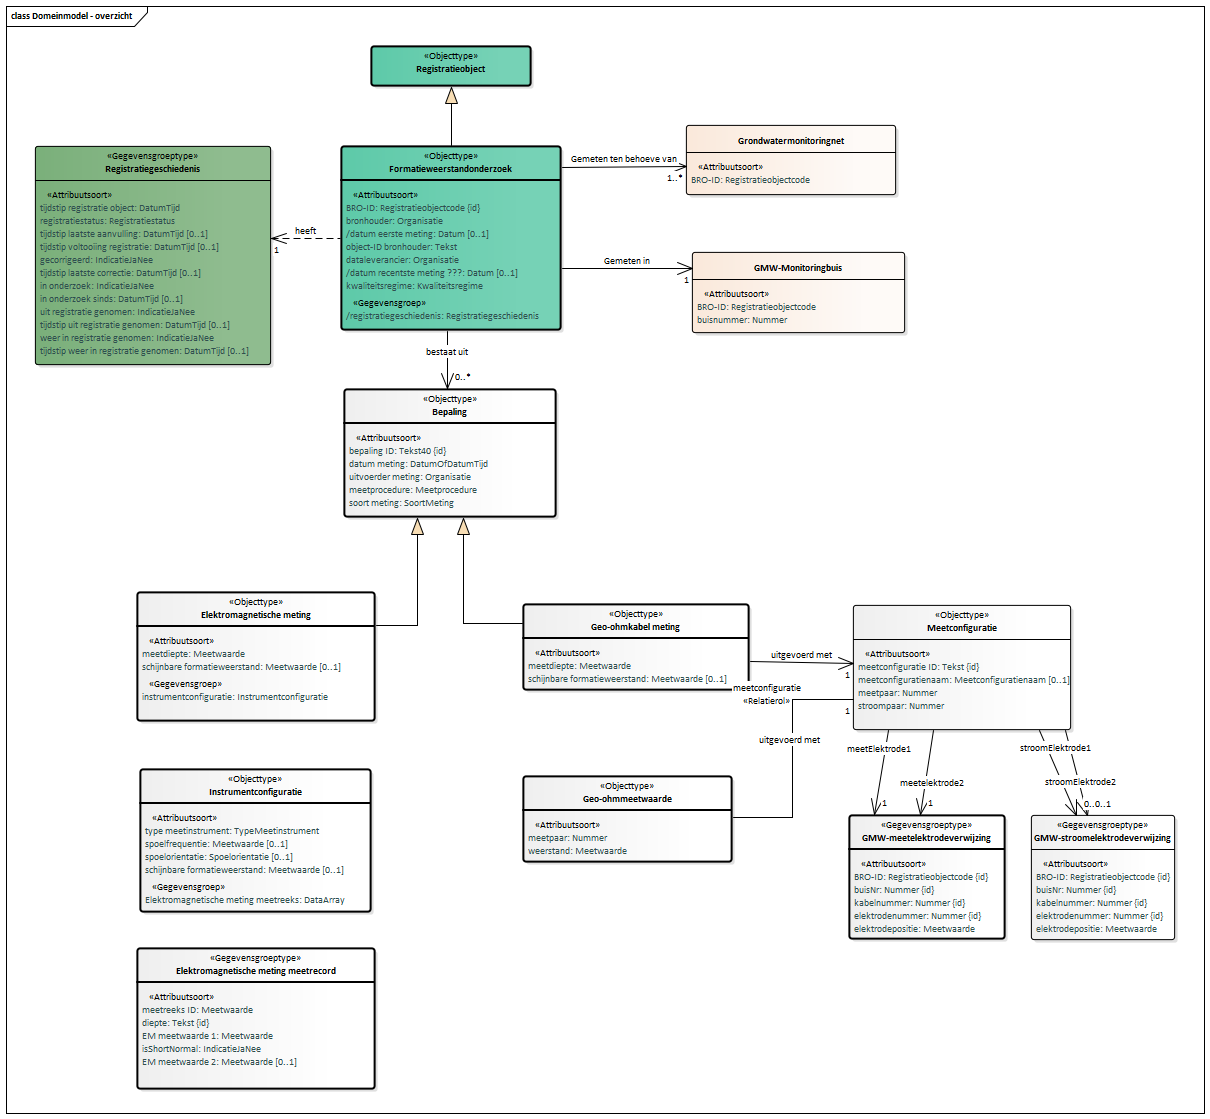
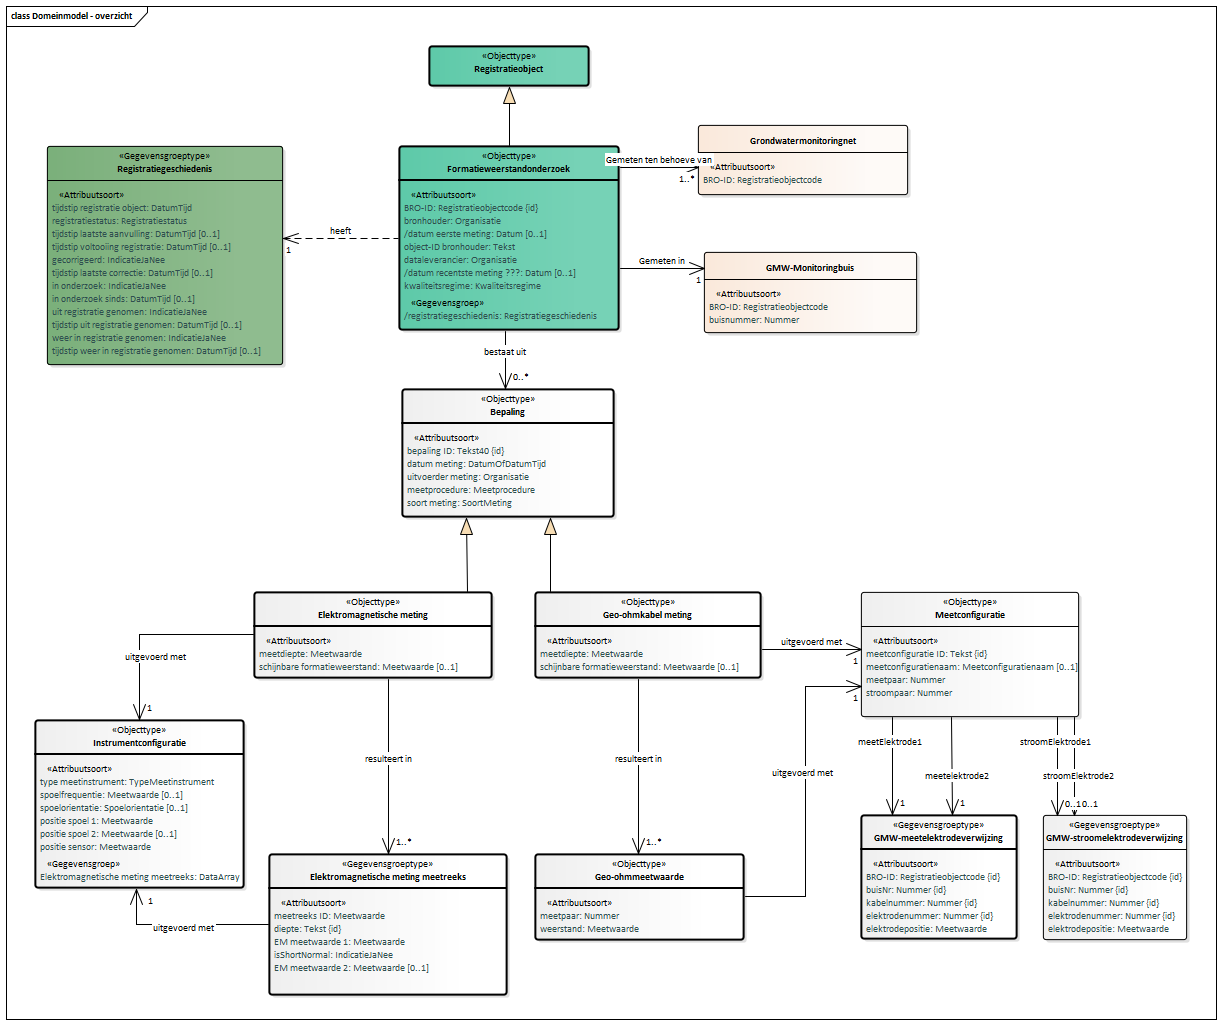
Conceptualmodel-FormatieweerstandonderzoekFRDconceptueel-0.1-1-20200401-20200814-153834

diff --git a/data/FRD-cat.msword.html b/data/FRD-cat.msword.html
@@ -15,7 +15,7 @@
    <body>
       <p>Conceptual model/Formatieweerstand onderzoek (FRD) conceptueel/20200401</p>
       <p>Imvertor: 1.61.2</p>
-      <p>Model release: Conceptualmodel-FormatieweerstandonderzoekFRDconceptueel-0.1-1-20200401-20200814-144507</p>
+      <p>Model release: Conceptualmodel-FormatieweerstandonderzoekFRDconceptueel-0.1-1-20200401-20200814-153834</p>
       <hr>
       <section>
          <h1>Artikel 1 Definitie van registratieobject, entiteiten en attributen</h1>
@@ -60,7 +60,7 @@
          <section>
             <h2>Het domeinmodel</h2>
             <section id="">
-               <div class="imageinfo overview"><img src="Images/EAID_0B3602DB_544E_4f6f_A6E2_DDE4A8A6790E.png" usemap="#imagemap-EAID_0B3602DB_544E_4f6f_A6E2_DDE4A8A6790E" alt="Diagram "><map name="imagemap-EAID_0B3602DB_544E_4f6f_A6E2_DDE4A8A6790E"><area shape="rect" alt="GMW-stroomelektrodeverwijzing" coords="1031,815,1175,940" href="#graph_EAID_561565B3_15F2_4942_B5C4_E03BCE867EEE"><area shape="rect" alt="Geo-ohmmeetwaarde" coords="523,776,732,862" href="#graph_EAID_0E73504D_4081_4ea3_A7AA_1FB27FBC227B"><area shape="rect" alt="Instrumentconfiguratie" coords="140,769,371,912" href="#graph_EAID_C4102470_4315_4bda_9B2A_59EDEA9E2834"><area shape="rect" alt="Meetconfiguratie" coords="853,605,1071,730" href="#graph_EAID_04636D26_BFC4_4838_AC91_21BB2BF62212"><area shape="rect" alt="Elektromagnetische meting meetrecord" coords="137,948,375,1089" href="#graph_EAID_17DB4860_7353_467e_89CD_5018D22D8A43"><area shape="rect" alt="Elektromagnetische meting" coords="137,592,375,721" href="#graph_EAID_A1A80DF7_7D38_4063_8DE9_80EDAAF846B4"><area shape="rect" alt="Geo-ohmkabel meting" coords="523,604,749,690" href="#graph_EAID_16AE0361_B385_4410_A632_F5CDCEEC8FD1"><area shape="rect" alt="GMW-meetelektrodeverwijzing" coords="849,815,1005,939" href="#graph_EAID_EFFFB8A0_3810_43f9_83F1_FC48EFD1FE4E"><area shape="rect" alt="Bepaling" coords="344,389,556,517" href="#graph_EAID_D3B48B39_96CC_4f01_91F1_BDF0B725CD8A"><area shape="rect" alt="Registratiegeschiedenis" coords="35,146,271,365" href="#graph_EAID_0451B041_6862_420f_9E12_9829516BAF81"><area shape="rect" alt="Formatieweerstandonderzoek" coords="341,146,561,330" href="#graph_EAID_F03C2FC8_5705_46dc_927D_01B7EC61C2F2"><area shape="rect" alt="Registratieobject" coords="371,46,531,86" href="#graph_EAID_5706F7F6_075B_46d6_A47D_7DCF1EEB21B7"></map><p><b>Domeinmodel</b></p>
+               <div class="imageinfo overview"><img src="Images/EAID_0B3602DB_544E_4f6f_A6E2_DDE4A8A6790E.png" usemap="#imagemap-EAID_0B3602DB_544E_4f6f_A6E2_DDE4A8A6790E" alt="Diagram "><map name="imagemap-EAID_0B3602DB_544E_4f6f_A6E2_DDE4A8A6790E"><area shape="rect" alt="GMW-stroomelektrodeverwijzing" coords="1043,815,1187,940" href="#graph_EAID_561565B3_15F2_4942_B5C4_E03BCE867EEE"><area shape="rect" alt="Geo-ohmmeetwaarde" coords="535,854,744,940" href="#graph_EAID_0E73504D_4081_4ea3_A7AA_1FB27FBC227B"><area shape="rect" alt="Instrumentconfiguratie" coords="35,720,244,888" href="#graph_EAID_C4102470_4315_4bda_9B2A_59EDEA9E2834"><area shape="rect" alt="Meetconfiguratie" coords="861,592,1079,717" href="#graph_EAID_04636D26_BFC4_4838_AC91_21BB2BF62212"><area shape="rect" alt="Elektromagnetische meting meetreeks" coords="269,854,507,995" href="#graph_EAID_17DB4860_7353_467e_89CD_5018D22D8A43"><area shape="rect" alt="Elektromagnetische meting" coords="254,592,492,678" href="#graph_EAID_A1A80DF7_7D38_4063_8DE9_80EDAAF846B4"><area shape="rect" alt="Geo-ohmkabel meting" coords="535,592,761,678" href="#graph_EAID_16AE0361_B385_4410_A632_F5CDCEEC8FD1"><area shape="rect" alt="GMW-meetelektrodeverwijzing" coords="861,815,1017,939" href="#graph_EAID_EFFFB8A0_3810_43f9_83F1_FC48EFD1FE4E"><area shape="rect" alt="Bepaling" coords="402,389,614,517" href="#graph_EAID_D3B48B39_96CC_4f01_91F1_BDF0B725CD8A"><area shape="rect" alt="Registratiegeschiedenis" coords="47,146,283,365" href="#graph_EAID_0451B041_6862_420f_9E12_9829516BAF81"><area shape="rect" alt="Formatieweerstandonderzoek" coords="399,146,619,330" href="#graph_EAID_F03C2FC8_5705_46dc_927D_01B7EC61C2F2"><area shape="rect" alt="Registratieobject" coords="429,46,589,86" href="#graph_EAID_5706F7F6_075B_46d6_A47D_7DCF1EEB21B7"></map><p><b>Domeinmodel</b></p>
                </div>
             </section>
          </section>
@@ -1509,7 +1509,7 @@
                               <th>Definitie</th>
                               <td>
                                  
-                                 <p>TODO</p>
+                                 <p>De afstand tussen spoel 1 en de sensor uitgedrukt in centimeter</p>
                                  </td>
                            </tr>
                            <tr>
@@ -1534,8 +1534,8 @@
                            </tr>
                         </tbody>
                      </table>
-                     </section><a class="anchor" id="detail_attribute_Model_Instrumentconfiguratie_schijnbareformatieweerstand"></a><section id="detail_attribute_Model_Instrumentconfiguratie_schijnbareformatieweerstand">
-                     <h4>  schijnbare formatieweerstand</h4>
+                     </section><a class="anchor" id="detail_attribute_Model_Instrumentconfiguratie_positiespoel1"></a><section id="detail_attribute_Model_Instrumentconfiguratie_positiespoel1">
+                     <h4>  positie spoel 1</h4>
                      
                      <table style="width: 100%;">
                         <colgroup style="width: 30%;"></colgroup>
@@ -1549,8 +1549,44 @@
                               <th>Definitie</th>
                               <td>
                                  
-                                 <p>De schijnbare formatieweerstand is de omrekening van de gemeten geleidbaarheid op
-                                    een bepaalde diepte naar ohmmeter.</p>
+                                 <p>Afstand tussen onderkant instrument en sensor uitgedrukt in centimeter</p>
+                                 </td>
+                           </tr>
+                           <tr>
+                              <th>Juridische status</th>
+                              <td>Authentiek</td>
+                           </tr>
+                           <tr>
+                              <th>Kardinaliteit</th>
+                              <td>1</td>
+                           </tr>
+                           <tr>
+                              <th>Domein</th>
+                              <td></td>
+                           </tr>
+                           <tr>
+                              <th>&nbsp;&nbsp;Naam</th>
+                              <td>Meetwaarde 
+                                 </td>
+                           </tr>
+                        </tbody>
+                     </table>
+                     </section><a class="anchor" id="detail_attribute_Model_Instrumentconfiguratie_positiespoel2"></a><section id="detail_attribute_Model_Instrumentconfiguratie_positiespoel2">
+                     <h4>  positie spoel 2</h4>
+                     
+                     <table style="width: 100%;">
+                        <colgroup style="width: 30%;"></colgroup>
+                        <colgroup style="width: 70%;"></colgroup>
+                        <tbody>
+                           <tr>
+                              <th>Type gegeven</th>
+                              <td>Attribuut van Instrumentconfiguratie</td>
+                           </tr>
+                           <tr>
+                              <th>Definitie</th>
+                              <td>
+                                 
+                                 <p>Afstand tussen spoel 2 en sensor uitgedrukt in centimeter</p>
                                  </td>
                            </tr>
                            <tr>
@@ -1570,10 +1606,54 @@
                               <td>Meetwaarde 
                                  </td>
                            </tr>
+                           <tr>
+                              <th>Toelichting</th>
+                              <td>
+                                 
+                                 <p>Bij aanwezigheid van meerdere spoelen is dit de Long Normal</p>
+                                 </td>
+                           </tr>
+                        </tbody>
+                     </table>
+                     </section><a class="anchor" id="detail_attribute_Model_Instrumentconfiguratie_positiesensor"></a><section id="detail_attribute_Model_Instrumentconfiguratie_positiesensor">
+                     <h4>  positie sensor</h4>
+                     
+                     <table style="width: 100%;">
+                        <colgroup style="width: 30%;"></colgroup>
+                        <colgroup style="width: 70%;"></colgroup>
+                        <tbody>
+                           <tr>
+                              <th>Type gegeven</th>
+                              <td>Attribuut van Instrumentconfiguratie</td>
+                           </tr>
+                           <tr>
+                              <th>Definitie</th>
+                              <td>
+                                 
+                                 <p>Afstand tussen spoel 1 en sensor uitgedrukt in centimeter</p>
+                                 </td>
+                           </tr>
+                           <tr>
+                              <th>Juridische status</th>
+                              <td>Authentiek</td>
+                           </tr>
+                           <tr>
+                              <th>Kardinaliteit</th>
+                              <td>1</td>
+                           </tr>
+                           <tr>
+                              <th>Domein</th>
+                              <td></td>
+                           </tr>
+                           <tr>
+                              <th>&nbsp;&nbsp;Naam</th>
+                              <td>Meetwaarde 
+                                 </td>
+                           </tr>
                         </tbody>
                      </table>
                      </section>
-               </section><a class="anchor" id="graph_EAID_33450642_9C84_4c07_AFE3_FB734FBA8DBB"></a><a class="anchor" id="global_class_Model_Elektromagnetischemetingmeetreeks"></a><section id="global_class_Model_Elektromagnetischemetingmeetreeks">
+               </section><a class="anchor" id="graph_EAID_17DB4860_7353_467e_89CD_5018D22D8A43"></a><a class="anchor" id="global_class_Model_Elektromagnetischemetingmeetreeks"></a><section id="global_class_Model_Elektromagnetischemetingmeetreeks">
                   <h3>   Elektromagnetische meting meetreeks</h3>
                   <table style="width: 100%;">
                      <colgroup style="width: 30%;"></colgroup>
@@ -1623,67 +1703,12 @@
                            </tr>
                            <tr>
                               <th>&nbsp;&nbsp;Naam</th>
-                              <td>Tekst </td>
-                           </tr>
-                        </tbody>
-                     </table>
-                     </section>
-               </section><a class="anchor" id="graph_EAID_17DB4860_7353_467e_89CD_5018D22D8A43"></a><a class="anchor" id="global_class_Model_Elektromagnetischemetingmeetrecord"></a><section id="global_class_Model_Elektromagnetischemetingmeetrecord">
-                  <h3>   Elektromagnetische meting meetrecord</h3>
-                  <table style="width: 100%;">
-                     <colgroup style="width: 30%;"></colgroup>
-                     <colgroup style="width: 70%;"></colgroup>
-                     <tbody>
-                        <tr>
-                           <th>Type gegeven</th>
-                           <td>Entiteit</td>
-                        </tr>
-                        <tr>
-                           <th>Definitie</th>
-                           <td>
-                              
-                              <p>De meetreeks behorende bij de elektromagnetische meting</p>
-                              </td>
-                        </tr>
-                     </tbody>
-                  </table><a class="anchor" id="detail_attribute_Model_Elektromagnetischemetingmeetrecord_meetreeksID"></a><section id="detail_attribute_Model_Elektromagnetischemetingmeetrecord_meetreeksID">
-                     <h4>  meetreeks ID</h4>
-                     
-                     <table style="width: 100%;">
-                        <colgroup style="width: 30%;"></colgroup>
-                        <colgroup style="width: 70%;"></colgroup>
-                        <tbody>
-                           <tr>
-                              <th>Type gegeven</th>
-                              <td>Attribuut van Elektromagnetische meting meetrecord</td>
-                           </tr>
-                           <tr>
-                              <th>Definitie</th>
-                              <td>
-                                 
-                                 <p>TODO</p>
-                                 </td>
-                           </tr>
-                           <tr>
-                              <th>Juridische status</th>
-                              <td>Authentiek</td>
-                           </tr>
-                           <tr>
-                              <th>Kardinaliteit</th>
-                              <td>1</td>
-                           </tr>
-                           <tr>
-                              <th>Domein</th>
-                              <td></td>
-                           </tr>
-                           <tr>
-                              <th>&nbsp;&nbsp;Naam</th>
                               <td>Meetwaarde 
                                  </td>
                            </tr>
                         </tbody>
                      </table>
-                     </section><a class="anchor" id="detail_attribute_Model_Elektromagnetischemetingmeetrecord_diepte"></a><section id="detail_attribute_Model_Elektromagnetischemetingmeetrecord_diepte">
+                     </section><a class="anchor" id="detail_attribute_Model_Elektromagnetischemetingmeetreeks_diepte"></a><section id="detail_attribute_Model_Elektromagnetischemetingmeetreeks_diepte">
                      <h4>  diepte</h4>
                      
                      <table style="width: 100%;">
@@ -1692,7 +1717,7 @@
                         <tbody>
                            <tr>
                               <th>Type gegeven</th>
-                              <td>Attribuut van Elektromagnetische meting meetrecord</td>
+                              <td>Attribuut van Elektromagnetische meting meetreeks</td>
                            </tr>
                            <tr>
                               <th>Definitie</th>
@@ -1720,7 +1745,7 @@
                            </tr>
                         </tbody>
                      </table>
-                     </section><a class="anchor" id="detail_attribute_Model_Elektromagnetischemetingmeetrecord_EMmeetwaarde1"></a><section id="detail_attribute_Model_Elektromagnetischemetingmeetrecord_EMmeetwaarde1">
+                     </section><a class="anchor" id="detail_attribute_Model_Elektromagnetischemetingmeetreeks_EMmeetwaarde1"></a><section id="detail_attribute_Model_Elektromagnetischemetingmeetreeks_EMmeetwaarde1">
                      <h4>  EM meetwaarde 1</h4>
                      
                      <table style="width: 100%;">
@@ -1729,7 +1754,7 @@
                         <tbody>
                            <tr>
                               <th>Type gegeven</th>
-                              <td>Attribuut van Elektromagnetische meting meetrecord</td>
+                              <td>Attribuut van Elektromagnetische meting meetreeks</td>
                            </tr>
                            <tr>
                               <th>Definitie</th>
@@ -1765,7 +1790,7 @@
                            </tr>
                         </tbody>
                      </table>
-                     </section><a class="anchor" id="detail_attribute_Model_Elektromagnetischemetingmeetrecord_isShortNormal"></a><section id="detail_attribute_Model_Elektromagnetischemetingmeetrecord_isShortNormal">
+                     </section><a class="anchor" id="detail_attribute_Model_Elektromagnetischemetingmeetreeks_isShortNormal"></a><section id="detail_attribute_Model_Elektromagnetischemetingmeetreeks_isShortNormal">
                      <h4>  isShortNormal</h4>
                      
                      <table style="width: 100%;">
@@ -1774,7 +1799,7 @@
                         <tbody>
                            <tr>
                               <th>Type gegeven</th>
-                              <td>Attribuut van Elektromagnetische meting meetrecord</td>
+                              <td>Attribuut van Elektromagnetische meting meetreeks</td>
                            </tr>
                            <tr>
                               <th>Definitie</th>
@@ -1805,7 +1830,7 @@
                            </tr>
                         </tbody>
                      </table>
-                     </section><a class="anchor" id="detail_attribute_Model_Elektromagnetischemetingmeetrecord_EMmeetwaarde2"></a><section id="detail_attribute_Model_Elektromagnetischemetingmeetrecord_EMmeetwaarde2">
+                     </section><a class="anchor" id="detail_attribute_Model_Elektromagnetischemetingmeetreeks_EMmeetwaarde2"></a><section id="detail_attribute_Model_Elektromagnetischemetingmeetreeks_EMmeetwaarde2">
                      <h4>  EM meetwaarde 2</h4>
                      
                      <table style="width: 100%;">
@@ -1814,7 +1839,7 @@
                         <tbody>
                            <tr>
                               <th>Type gegeven</th>
-                              <td>Attribuut van Elektromagnetische meting meetrecord</td>
+                              <td>Attribuut van Elektromagnetische meting meetreeks</td>
                            </tr>
                            <tr>
                               <th>Definitie</th>
